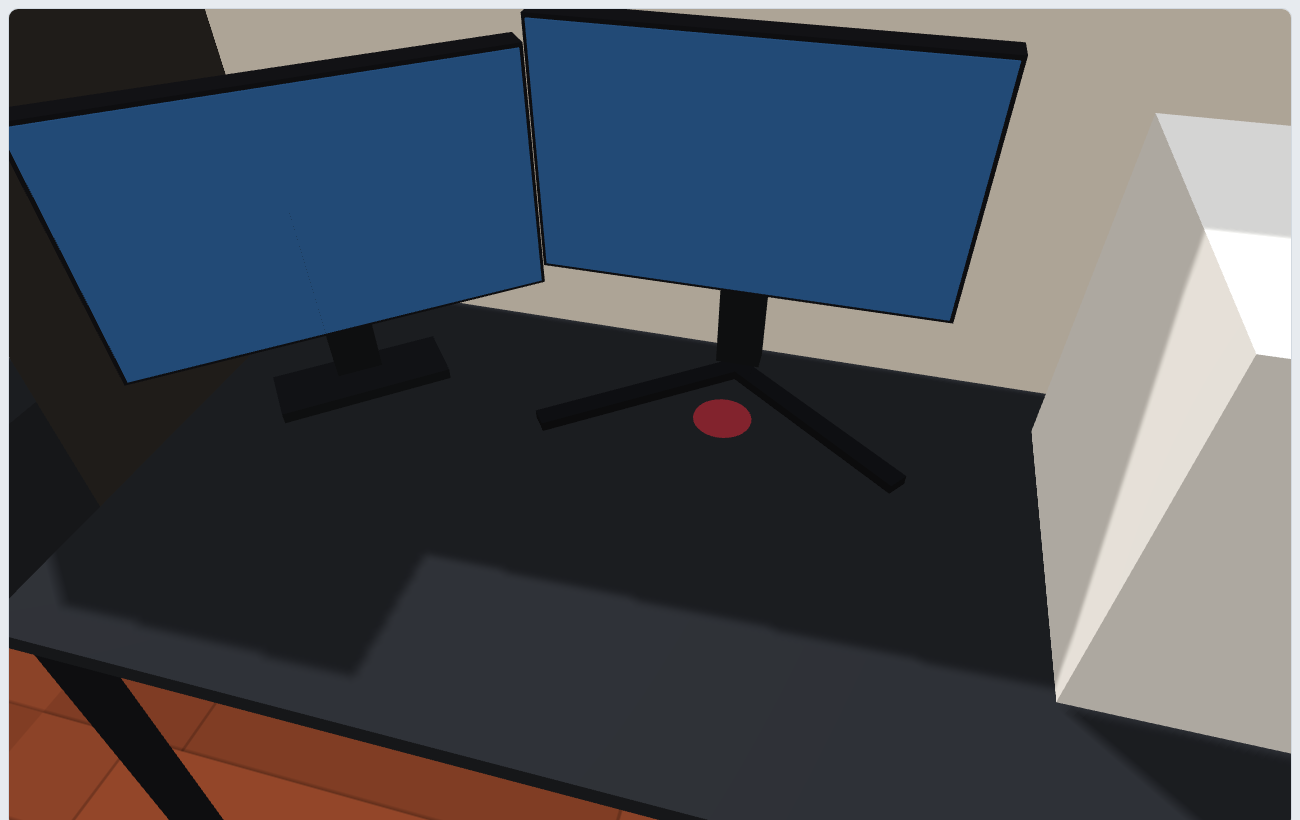
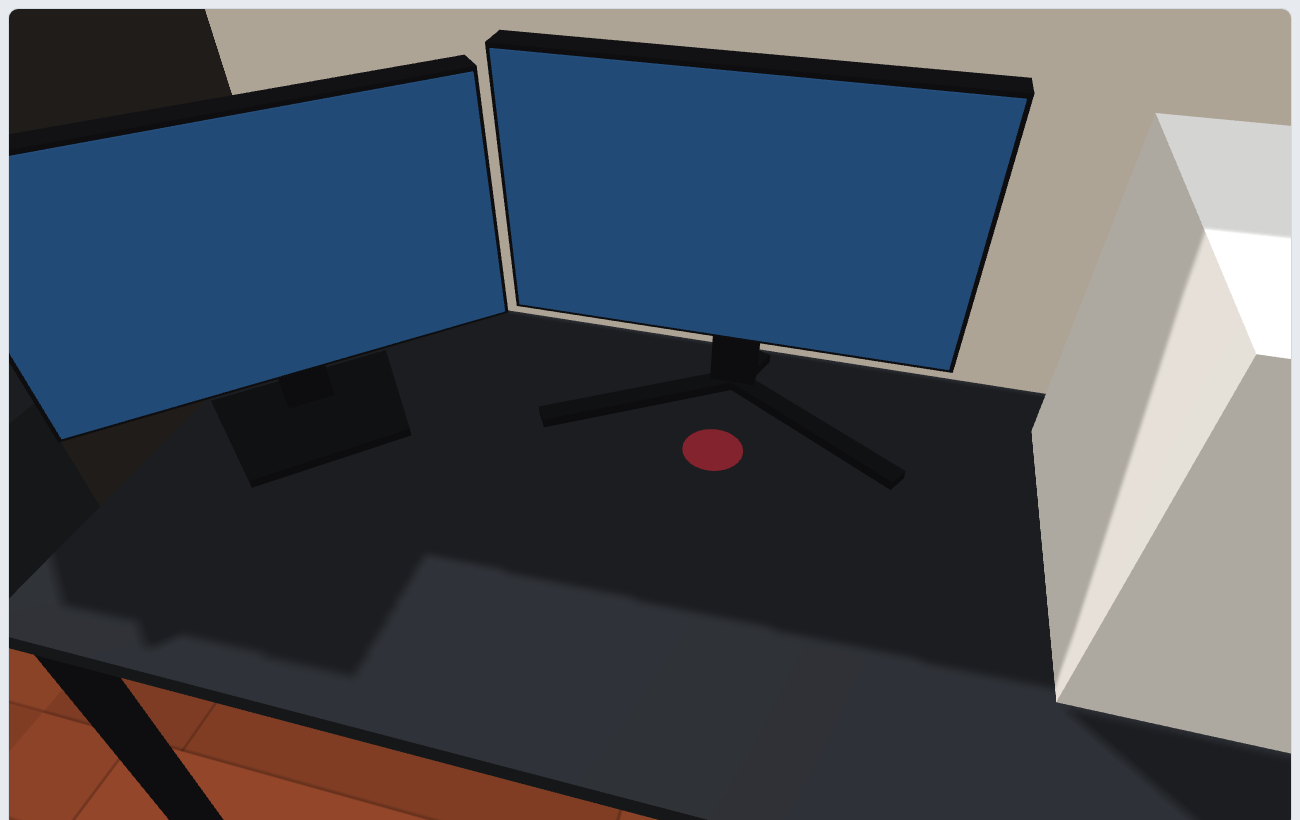
Monitör ayakları ASUS ölçü çizimlerine göre, VG279QM plaka ayak
PG27UCDM: 54,0 cm genişlik, 25,6 cm derinlik, ekran yüzü arkadan 20,7 cm.
VG279QM: trapez plaka 27,6/23,2 cm genişlik, 21,1 cm derinlik, ekran yüzü arkadan 15 cm.

Claude-Session: https://claude.ai/code/session_01LGe1hPF4mWUm4U9E5hsUAm

Changed region(s): [[0.0, 0.0, 0.8, 0.5488], [0.5231, 0.4878, 0.5846, 0.5793]]

diff --git a/oda-planlayici/index.html b/oda-planlayici/index.html
@@ -419,7 +419,7 @@ function normItem(id, o) {
     scene: typeof o.scene === "string" && o.scene ? o.scene : "mevcut",
     link: String(o.link || ""), price: o.price === "" || o.price == null ? null : num(o.price, null),
     note: String(o.note || ""), created: num(o.created, 0),
-    ...(o.stand === "tripod" ? { stand: "tripod" } : {}),
+    ...(["tripod", "plate"].includes(o.stand) ? { stand: o.stand } : {}),
   };
 }
 const plain = (it) => { const { id, ...rest } = it; return rest; };
@@ -898,14 +898,22 @@ function planDetail(it, sw) {
     case "kitaplik": return `<line class="detail" stroke-width="${sw}" x1="${-hw + 2}" y1="${-hd + 2}" x2="${hw - 2}" y2="${-hd + 2}"/>`;
     case "sandalye": return `<rect class="detail" stroke-width="${sw}" x="${-hw * 0.8}" y="${-hd}" width="${it.w * 0.8}" height="${Math.min(8, it.d * 0.15)}" rx="2"/>`;
     case "lamba": return `<circle class="detail" stroke-width="${sw}" r="${Math.min(hw, hd) * 0.6}"/>`;
-    case "monitor": if (it.stand === "tripod") {
-      // two long front legs from a hub at the back, short rear foot
-      const hz = -hd + 5, tx = Math.min(hw * 0.88, 27);
-      return `<rect class="detail-fill" stroke-width="${sw}" x="${-hw}" y="${-hd + 5}" width="${it.w}" height="${Math.min(5, it.d * 0.2)}"/>
-      <path class="detail" stroke-width="${sw * 1.6}" fill="none" d="M${-tx} ${hd - 1} L0 ${hz} L${tx} ${hd - 1} M0 ${hz} L0 ${-hd}"/>`;
-    }
-    return `<rect class="detail-fill" stroke-width="${sw}" x="${-hw}" y="${-hd + 3}" width="${it.w}" height="${Math.min(6, it.d * 0.3)}"/>
+    case "monitor": {
+      if (it.stand === "tripod") {
+        // ROG tripod (PG27UCDM drawing): panel face 20.7 cm from the rear, two long legs reach past it, short rear foot
+        const hz = -hd + 8, tx = Math.min(hw * 0.89, 27), pf = Math.min(-hd + 20.7, hd - 3);
+        return `<rect class="detail-fill" stroke-width="${sw}" x="${-hw}" y="${pf - 6}" width="${it.w}" height="6"/>
+      <path class="detail" stroke-width="${sw * 1.6}" fill="none" d="M${-tx} ${hd - 0.5} L0 ${hz} L${tx} ${hd - 0.5} M0 ${hz} L3 ${-hd + 0.5}"/>`;
+      }
+      if (it.stand === "plate") {
+        // TUF plate (VG279QM drawing): 27.6 cm wide at the back, 23.2 at the front, panel face 15 cm from the rear
+        const bw = Math.min(13.8, hw), fw = Math.min(11.6, hw), pf = Math.min(-hd + 15, hd - 2);
+        return `<path class="detail" stroke-width="${sw}" d="M${-bw} ${-hd} L${bw} ${-hd} L${fw} ${hd} L${-fw} ${hd} Z"/>
+      <rect class="detail-fill" stroke-width="${sw}" x="${-hw}" y="${pf - 5}" width="${it.w}" height="5"/>`;
+      }
+      return `<rect class="detail-fill" stroke-width="${sw}" x="${-hw}" y="${-hd + 3}" width="${it.w}" height="${Math.min(6, it.d * 0.3)}"/>
       <rect class="detail" stroke-width="${sw}" x="${-Math.min(hw * 0.4, 14)}" y="${-hd + 2}" width="${Math.min(it.w * 0.4, 28)}" height="${it.d - 4}" rx="3"/>`;
+    }
     case "kapakli": return `<line class="detail" stroke-width="${sw}" x1="${-hw}" y1="${hd - 3}" x2="${hw}" y2="${hd - 3}"/>`;
     case "ayna": return `<line class="detail" stroke-width="${sw * 1.5}" x1="${-hw + 3}" y1="${hd}" x2="${hw - 3}" y2="${hd}"/>`;
     case "uplighter": return `<circle class="detail-fill" stroke-width="${sw}" r="${Math.min(hw, hd) * 0.85}"/><circle class="detail" stroke-width="${sw}" r="${Math.min(hw, hd) * 0.35}"/>`;
@@ -1489,21 +1497,32 @@ const scene3d = (() => {
       }
       case "monitor": {
         // stand base, neck at the back, panel in front of the neck; screen faces +z
-        const ph = Math.min(W * 0.605, H - 0.05), pz = -D / 2 + 0.07, base = Math.min(W * 0.42, 0.3);
-        if (it.stand === "tripod") {
-          // ROG tripod: two long legs splay forward from the neck, short foot behind it
-          const zh = -D / 2 + 0.05, tipX = Math.min(W * 0.44, 0.27), tipZ = D / 2 - 0.015;
+        const tri = it.stand === "tripod", plate = it.stand === "plate", sc = "#202227", sm = { metalness: 0.45, roughness: 0.5 };
+        const ph = Math.min(W * 0.605, H - 0.05), base = Math.min(W * 0.42, 0.3);
+        // panel depth position from the manufacturer drawings: face 20.7 cm (tripod) / 15 cm (plate) from the rear
+        const pz = tri ? Math.min(-D / 2 + 0.185, D / 2 - 0.03) : plate ? Math.min(-D / 2 + 0.128, D / 2 - 0.03) : -D / 2 + 0.07;
+        const nz = tri ? -D / 2 + 0.08 : plate ? -D / 2 + 0.06 : -D / 2 + 0.035;
+        if (tri) {
+          // ROG tripod: two long legs splay forward past the panel, short foot behind the neck
+          const tipX = Math.min(W * 0.44, 0.27), tipZ = D / 2 - 0.01;
           for (const sx of [-1, 1]) {
-            const dx = sx * tipX, dz = tipZ - zh;
-            const leg = bx(g, 0.032, 0.016, Math.hypot(dx, dz), "#202227", dx / 2, 0, zh + dz / 2, { metalness: 0.5, roughness: 0.45 });
-            leg.rotation.y = Math.atan2(dx, dz);
+            const dx = sx * tipX, dz = tipZ - nz;
+            bx(g, 0.032, 0.016, Math.hypot(dx, dz), sc, dx / 2, 0, nz + dz / 2, sm).rotation.y = Math.atan2(dx, dz);
           }
-          bx(g, 0.05, 0.016, 0.07, "#202227", 0, 0, -D / 2 + 0.035, { metalness: 0.5, roughness: 0.45 });
+          const rz = -D / 2 + 0.005 - nz;
+          bx(g, 0.04, 0.016, Math.hypot(0.03, rz), sc, 0.015, 0, nz + rz / 2, sm).rotation.y = Math.atan2(0.03, rz);
           const logo = new THREE.Mesh(new THREE.CircleGeometry(0.045, 32), new THREE.MeshBasicMaterial({ color: "#ff2a3c", transparent: true, opacity: 0.45, depthWrite: false }));
-          logo.rotation.x = -Math.PI / 2; logo.position.set(0, 0.003, (zh + tipZ) / 2 + 0.02); g.add(logo);
-        } else
-        bx(g, base, 0.018, D - 0.02, "#202227", 0, 0, 0.0, { metalness: 0.4, roughness: 0.5 });
-        bx(g, 0.07, H - ph * 0.55, 0.035, "#202227", 0, 0.018, -D / 2 + 0.035, { metalness: 0.4, roughness: 0.5 });
+          logo.rotation.x = -Math.PI / 2; logo.position.set(0, 0.003, pz + 0.06); g.add(logo);
+        } else if (plate) {
+          // TUF plate: trapezoid, 27.6 cm at the back, 23.2 cm at the front
+          const sh = new THREE.Shape(), bw = Math.min(0.138, W / 2), fw = Math.min(0.116, W / 2);
+          sh.moveTo(-bw, -D / 2); sh.lineTo(bw, -D / 2); sh.lineTo(fw, D / 2); sh.lineTo(-fw, D / 2); sh.closePath();
+          const pm = new THREE.Mesh(new THREE.ExtrudeGeometry(sh, { depth: 0.014, bevelEnabled: false }), mat(sc, sm));
+          pm.rotation.x = Math.PI / 2; pm.position.y = 0.014; pm.castShadow = pm.receiveShadow = true; g.add(pm);
+        } else bx(g, base, 0.018, D - 0.02, sc, 0, 0, 0.0, sm);
+        bx(g, 0.07, H - ph * 0.55, 0.035, sc, 0, 0.014, nz, sm);
+        const gap = (pz - 0.0225) - (nz + 0.0175);
+        if (gap > 0.005) bx(g, 0.06, 0.06, gap, sc, 0, H - ph * 0.6, nz + 0.0175 + gap / 2, sm);
         bx(g, W, ph, 0.045, c, 0, H - ph, pz, { roughness: 0.45, metalness: 0.25 });
         const scr = bx(g, W - 0.012, ph - 0.012, 0.004, "#0c1a2b", 0, H - ph + 0.006, pz + 0.024, { emissive: "#2a5d93", emissiveIntensity: 0.6, roughness: 0.12 });
         scr.castShadow = false;
